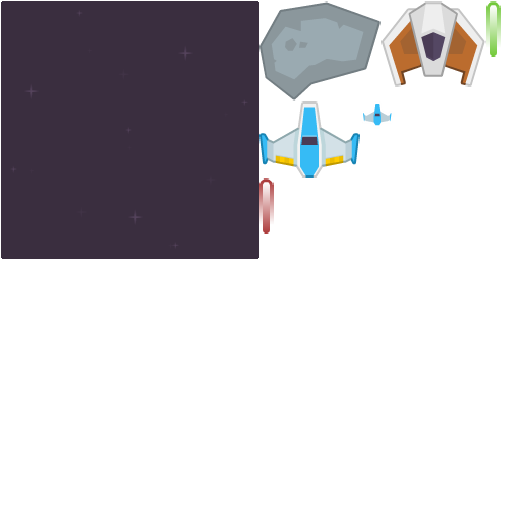
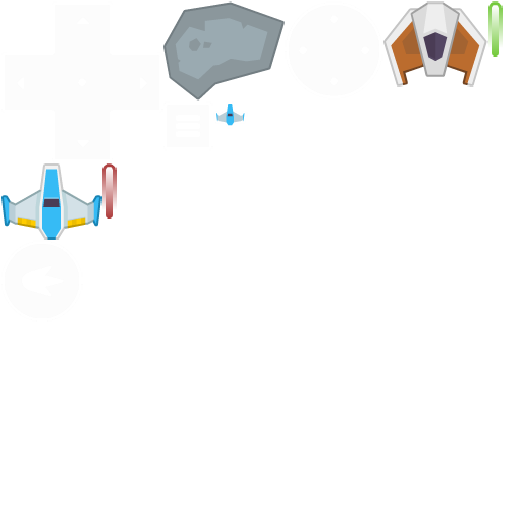
Add more sounds and texture

diff --git a/space_invader/engine.py b/space_invader/engine.py
@@ -2,17 +2,18 @@ from time import time
 
 from kivy.graphics import Color, Rectangle
 from kivy.clock import Clock
-from kivy.core.audio import SoundLoader
 from kivy.core.image import Image as CoreImage
 from kivy.properties import DictProperty, ObjectProperty, ListProperty
 from kivy.uix.floatlayout import FloatLayout
 from kivy.uix.screenmanager import FadeTransition, Screen, ScreenManager
 from kivy.uix.widget import Widget
+from kivy.vector import Vector
 
 from enemies import EnemyHive
 from playership import PlayerShip
 
 from spaceship import FPS
+from utils import load_sound
 
 
 class ActorsContainer(FloatLayout):
@@ -42,10 +43,11 @@ class ActorsContainer(FloatLayout):
 
 class Background(Widget):
     tx_space = ObjectProperty(None)
+    SPEED = Vector(0., 0.2)
 
     def __init__(self, **kwargs):
         super(Background, self).__init__(**kwargs)
-        t = CoreImage("img/blue.png").texture
+        t = CoreImage("img/bg/blue.png").texture
         t.wrap = "repeat"
         self.tx_space = t
 
@@ -60,7 +62,7 @@ class Background(Widget):
     def update(self, dt):
         # Change the origin of the texture to emulate motion
         t = self.tx_space
-        t.uvpos = (t.uvpos[0], (t.uvpos[1] + 0.2 * dt) % self.height)
+        t.uvpos = ((t.uvpos[0] + self.SPEED.x * dt) % self.width, (t.uvpos[1] + self.SPEED.y * dt) % self.height)
         self.property("tx_space").dispatch(self)  # Force update
 
 
@@ -95,7 +97,7 @@ class ShooterGame(ScreenManager):
     def __init__(self, **kwargs):
         kwargs["transition"] = FadeTransition()
         super(ShooterGame, self).__init__(**kwargs)
-        self.bg_music = SoundLoader.load('sounds/StarCommander1.ogg')
+        self.bg_music = load_sound('sounds/StarCommander1.ogg')
         if self.bg_music:
             self.bg_music.play()
             self.bg_music.loop = True

diff --git a/space_invader/playership.py b/space_invader/playership.py
@@ -3,7 +3,6 @@ from random import choice
 from time import time
 
 from kivy.clock import Clock
-from kivy.core.audio import SoundLoader
 from kivy.core.window import Window
 from kivy.metrics import dp
 from kivy.properties import NumericProperty
@@ -15,6 +14,7 @@ from kivy.vector import Vector
 from guns import RepeaterGun
 from misc_objects import Debris
 from spaceship import SpaceShip, FPS
+from utils import load_sound
 
 DPI = dp(96)
 
@@ -42,7 +42,9 @@ class PlayerShip(SpaceShip):
 
         self.gun = RepeaterGun(space_game=self.space_game)
         self.add_widget(self.gun)
-        self.boom = None  # SoundLoader.load('boom.ogg')
+        self.gun.center_x = self.center_x
+        self.gun.center_y = self.center_y
+        self.boom = load_sound('sounds/boom.ogg')
 
         # Add touch events layer
         self.player_speed = Vector(0, 0)
@@ -85,7 +87,7 @@ class PlayerShip(SpaceShip):
 
     def on_touch_down(self, touch):
         vec = Vector(touch.x, touch.y)
-        if touch.x > self.parent.center_x:
+        if touch.x < self.parent.center_x:
             touch.ud["lstick"] = vec
         else:
             touch.ud["rstick"] = vec
@@ -119,10 +121,12 @@ class PlayerShip(SpaceShip):
     def on_touch_up(self, touch):
         # print("in up ", touch.ud, self.bullet_fire)
         if touch.ud.get("lstick", None) is not None:
-            self.player_motion.cancel()
+            if self.player_motion is not None:
+                self.player_motion.cancel()
             touch.ud["lstick"] = None
         elif touch.ud.get("rstick", None) is not None:
-            self.bullet_fire.cancel()
+            if self.bullet_fire is not None:
+                self.bullet_fire.cancel()
             touch.ud["rstick"] = None
         return True
 

diff --git a/space_invader/enemies.py b/space_invader/enemies.py
@@ -3,7 +3,7 @@ from random import choice, randint, random, uniform
 from time import time
 
 from kivy.clock import Clock
-from kivy.core.audio import SoundLoader
+from utils import load_sound
 
 from bullets import EnemyBullet
 from misc_objects import Debris
@@ -17,7 +17,7 @@ class EnemyShip(SpaceShip, Actor):
         SpaceShip.__init__(self, space_game)
         Actor.__init__(self, **kwargs)
         self.min_y = 200
-        self.boom = None  # SoundLoader.load('boom.ogg')
+        self.boom = load_sound('sounds/boom.ogg')
 
     def move(self):
         super(EnemyShip, self).move()
@@ -40,8 +40,8 @@ class EnemyShip(SpaceShip, Actor):
         if self.alive:
             bullet = EnemyBullet(
                 self.space_game.player,
-                x=self.x + self.width / 2,
-                y=self.y,
+                x=self.center_x,
+                y=self.y - self.height / 2.,
                 velocity_y=-240,
             )
             self.space_game.add_widget(bullet)

diff --git a/space_invader/guns.py b/space_invader/guns.py
@@ -1,11 +1,11 @@
 from random import uniform
 from time import time
 
-from kivy.core.audio import SoundLoader
 from kivy.properties import ObjectProperty
 from kivy.uix.widget import Widget
 
 from bullets import PlayerBullet
+from utils import load_sound
 
 
 class Gun(Widget):
@@ -24,7 +24,7 @@ class RepeaterGun(Gun):
         super(RepeaterGun, self).__init__(**kwargs)
         self.gun_fire_interval = 0.3
         self.gun_cooldown = time()
-        self.laser = None  # SoundLoader.load('laser.ogg')
+        self.laser = load_sound('sounds/laser2.ogg')
         # self.laser.stop()
         # self.laser.loop = False
 
@@ -82,7 +82,7 @@ class SpreadGun(Gun):
     def __init__(self, **kwargs):
         super(SpreadGun, self).__init__(**kwargs)
         self.gun_cooldown = time()
-        self.laser = None  # SoundLoader.load('laser.ogg')
+        self.laser = load_sound('sounds/laser2.ogg')
 
     def shoot(self):
         ret = True

diff --git a/space_invader/utils.py b/space_invader/utils.py
@@ -1,0 +1,13 @@
+import sys
+
+from kivy.core.audio import SoundLoader
+
+def load_sound(filename):
+    """Helper function loading sounds only on non-windows platform
+    
+    On Windows, GStream is poping annoying warnings.
+    """
+    if sys.platform == "win32":
+        return None
+    else:
+        return SoundLoader.load(filename)

diff --git a/README.md b/README.md
@@ -15,8 +15,10 @@
 
 The starting point was the code of [Frank Bieberly](https://github.com/b7500af1/shooter). Thanks to him for sharing his code.
 
-Graphics comes from [Kenney](https://kenney.nl/assets/) under CC0 1.0 license. In particular the following sets are used:
+Graphics and sounds effects comes from [Kenney](https://kenney.nl/assets/) under CC0 1.0 license. In particular the following sets are used:
 
-* [Space Shooter Redux](https://kenney.nl/assets/space-shooter-redux)
+* [Space Shooter Redux](https://kenney.nl/assets/space-shooter-redux/)
+* [On Screen Controls](https://kenney.nl/assets/)
+* [Digital Audio](https://kenney.nl/assets/)
 
 Theme music is [Star Commander 1](https://www.dl-sounds.com/royalty-free/star-commander1/) by DL Sounds.
